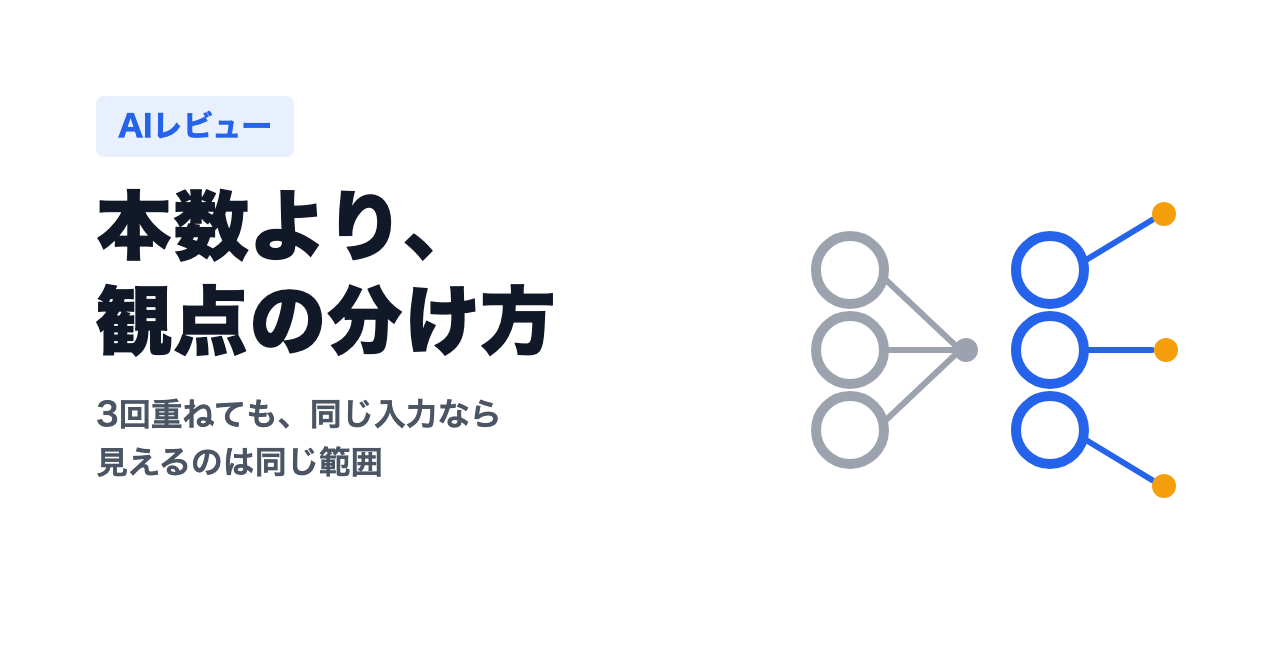
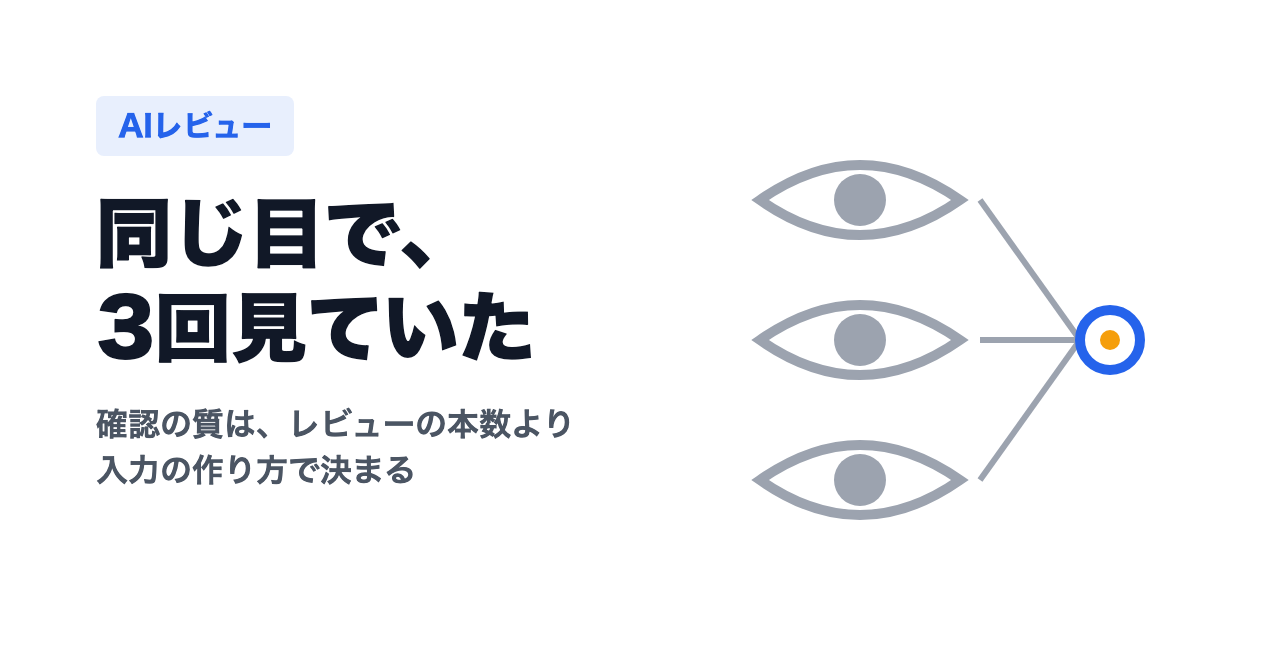
docs(articles_note): add input-split diagram and trim affiliation in review-count-not-safety (#1070)
* docs(articles_note): add input-split diagram and trim affiliation in review-count-not-safety

* docs(articles_note): refine intro, ending, wording and mobile diagram in review-count-not-safety

* docs(checklists): add three per-article checkpoints (diagram, UX, intro/ending)

* docs(skills): note-cover-image makes two covers and asks five personas before the author picks

* docs(articles_note): adopt cover B for review-count-not-safety

* docs(articles_note): bridge CodeQL paragraph to automation bias section

---------

diff --git a/articles_note/new/review-count-not-safety.md b/articles_note/new/review-count-not-safety.md
@@ -4,17 +4,17 @@
 
 ## レビューを増やせば安心できると思っていました
 
-五反田のスタートアップでプロダクト開発に携わっている、小峯将威（[@mine_take](https://x.com/mine_take)）です。普段は、AIを使った開発プロセスの改善と、チームでの意思決定の進め方を考えています。
+AIのレビューを3本重ねたのに、欠陥が2つ残りました。
+
+小峯将威（[@mine_take](https://x.com/mine_take)）です。個人でAIを使った開発プロセスの改善を試しながら、チームでの意思決定の進め方を考えています。
 
 ※本記事は個人の活動として執筆したものであり、所属組織の公式見解ではありません。
 
-AIにコードを書かせるようになって、確認の仕方を変えました。1回のレビューでは不安なので、AIのレビューを何本も重ねるようにしたのです。
-
-レビューを3回やれば、それぞれ観点が変わります。だから見落としはないだろう、と考えていました。
-
-ところが、見落としは起きました。この記事では、そのとき分かったことを書きます。
+AIにコードを書かせるようになってから、1回のレビューでは不安で、AIのレビューを何本も重ねるようにしていました。3回やれば観点も3つに分かれるので、見落としはないだろうと考えていたのです。
 
 結論を先に書きます。確認の質を決めていたのは、レビューの本数ではありませんでした。観点、つまり何を、どの入力で確かめるかの分け方でした。
+
+AIのレビューを重ねて安心している人に向けて、そう考えるに至った2つの場面と、いま自分に問うようにしている2つの問いを書きます。
 
 ## 同じ入力なら、3本のレビューも同じ目になる
 
@@ -22,17 +22,19 @@ AIにコードを書かせるようになって、確認の仕方を変えまし
 
 それでも、欠陥が2つ残りました。
 
-後から調べると、理由ははっきりしていました。3本とも、テスト用の入力を同じやり方（`git diff` の出力）で作っていたのです。git を通らない形の入力で起きる欠陥は、3本のどれも試していませんでした。
+後から調べると、理由ははっきりしていました。3本とも、テスト用の入力を同じやり方（`git diff` の出力）で作っていたのです。git を通らない形の入力で起きる欠陥は、3本のどれでも試せていませんでした。
 
 観点が違うつもりでも、入力の作り方が同じなら、観点は分かれていません。見える範囲は同じになります。3本のレビューは、3つの目ではなく、同じ目を3回使っていたことになります。
 
+![同じ入力で3本レビューすると見える範囲は1つのまま。入力の作り方を3種類に分けると見える範囲が分かれる](../assets/review-count-not-safety-input-split.png)
+
 ツールを足しても同じでした。別の作業では、同じ形の不備が3か所ありました。静的解析ツール（CodeQL）が警告を出したのは、そのうち1か所だけでした。
 
-正直、びっくりしました。そして「では、どうすればよいのか」が気になりました。
+正直、びっくりしました。振り返ると、問題はレビューやツールの数だけではなく、それを受け取る私の側にもありました。
 
 ## 確認を増やすと、確認を止める理由になる
 
-この見落としを通してしまった私の側の振る舞いには、名前があります。自動化バイアスです。
+この欠陥を通してしまった私の側の振る舞いには、名前があります。自動化バイアスです。
 
 ヒューマンファクター研究の Parasuraman と Manzey は、自動化された判断支援を使う人の研究を整理しました。2010年のレビュー論文の要旨では、次のように述べています。
 
@@ -50,7 +52,7 @@ AIにコードを書かせるようになって、確認の仕方を変えまし
 
 既に正しいルールがあるのに項目を足すと、チェックリストは長くなり、形だけのものになっていくと考えました。そこで、ルールは足さず、改善案を3つに絞りました。
 
-ルールを増やすのは、運用を考えるとよくない。もともとそう考えていたので、足す以外の選択肢を選べたのはよかったと思っています。
+ルールを増やすのは、運用を考えるとよくありません。もともとそう考えていたので、足す以外の選択肢を選べたのはよかったと思っています。
 
 ## ルールを足すほど、変更を見る注意が減る
 
@@ -62,7 +64,7 @@ AIにコードを書かせるようになって、確認の仕方を変えまし
 
 確認のルールが増えると、ルールを思い出して当てはめること自体に注意を使います。その分、目の前の変更を見る注意が減ります。ルールを足すほど安心は増えますが、確認の質は上がるとは限りません。
 
-レビューを信じすぎることと、ルールで注意が足りなくなること。2つは別の現象に見えますが、どちらも確認を「本数」や「項目数」で考えたときに起きていました。
+レビューを信じすぎることと、ルールで注意が足りなくなること。この2つは別の現象に見えますが、どちらも確認を「本数」や「項目数」で考えたときに起きていました。
 
 ## 本数ではなく、観点の分け方を設計する
 
@@ -75,10 +77,10 @@ AIにコードを書かせるようになって、確認の仕方を変えまし
 
 今は、レビューを重ねる前に、次の2つを自分に問うようにしています。
 
-- 重ねたレビューは、入力の作り方まで違うか
-- 見落としはルールの穴か、それとも実行しなかっただけか
+- **重ねたレビューは、入力の作り方まで違うか？**
+- **見落としはルールの穴か、それとも実行しなかっただけか？**
 
-AIに確認を任せる場面が増えるほど、「何回確認したか」より「どの観点で確認したか」を設計する必要があると考えています。
+3回重ねても、見落としは残りました。AIに確認を任せる場面が増えるほど、「何回確認したか」より「どの観点で確認したか」を設計する必要があると考えています。次にレビューを1本足したくなったら、その前に、入力の作り方が分かれているかを見てみてください。
 
 ## 参考
 

diff --git a/.claude/skills/note-cover-image/SKILL.md b/.claude/skills/note-cover-image/SKILL.md
@@ -127,9 +127,9 @@ visualMetaphor: 2つの領域を往復する構造
 
 **記事タイトルと画像の文字が完全重複し、情報が増えていない場合は短くする。**
 
-### 3. 2案まで構図を考える
+### 3. 構図の違う2案を考える
 
-無制限に案を増やさない。
+**必ずA案・B案の2案を作る**（1案で決め打ちしない）。無制限に案を増やさず、2案は下の型から別々のものを選ぶ。
 
 技術記事で使いやすい型:
 
@@ -185,9 +185,27 @@ python3 .claude/skills/note-cover-image/scripts/check_note_cover.py articles_not
 - 日本語・英語の綴りが正しいか
 - 画像内の英語率が本文方針より過剰でないか
 
-### 7. 保存
+視覚レビューは2案それぞれに行う。
 
-標準:
+### 7. 想定ペルソナ5人に感想と選択を聞く
+
+記事の想定読者から、立場や経験の違うペルソナを5人選ぶ（例: 現場エンジニア / テックリード / EM / AI導入を検討中の人 / note で流し読みする人）。各ペルソナを独立に演じ、次を聞く。
+
+1. 記事本文の感想（刺さった点・引っかかった点を各1〜2文）
+2. A案・B案のどちらでクリックしたくなるかと、その理由（サムネイル幅で見た前提）
+
+結果は表にまとめ、得票と、感想から出た本文の改善点を分けて示す。**採用案はユーザーが決める**。エージェントは得票と理由を添えた推奨を出すところまでにする。本文の改善点は、ユーザーが反映を指示したものだけ直す。
+
+### 8. 保存
+
+2案は次の名前で作る。
+
+```text
+articles_note/assets/<slug>-cover-a.png
+articles_note/assets/<slug>-cover-b.png
+```
+
+ユーザーが選んだ案を標準名へコピーする。選ばれなかった案は削除する。
 
 ```text
 articles_note/assets/<slug>-cover.png
@@ -276,6 +294,9 @@ Verdict: READY / NEEDS_CHANGES / REGENERATE / UNVERIFIED
 - [ ] 文字量を圧縮した
 - [ ] 記事と画像の意味が一致している
 - [ ] 1280 × 670 px / 10MB以下を確認した
+- [ ] 構図の違うA案・B案を作った
+- [ ] 想定ペルソナ5人に記事の感想と案の選択を聞き、表にまとめた
+- [ ] 採用案をユーザーが決めた
 - [ ] 画像を実際に表示して確認した
 - [ ] 日本語・英語の文字を目視確認した
 - [ ] 小さなサムネイルでも主見出しが読める
